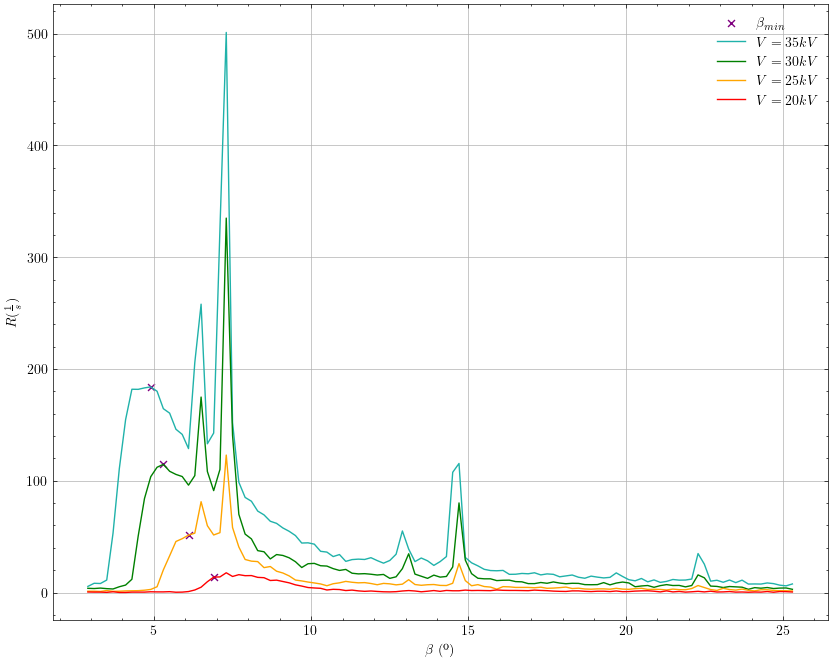
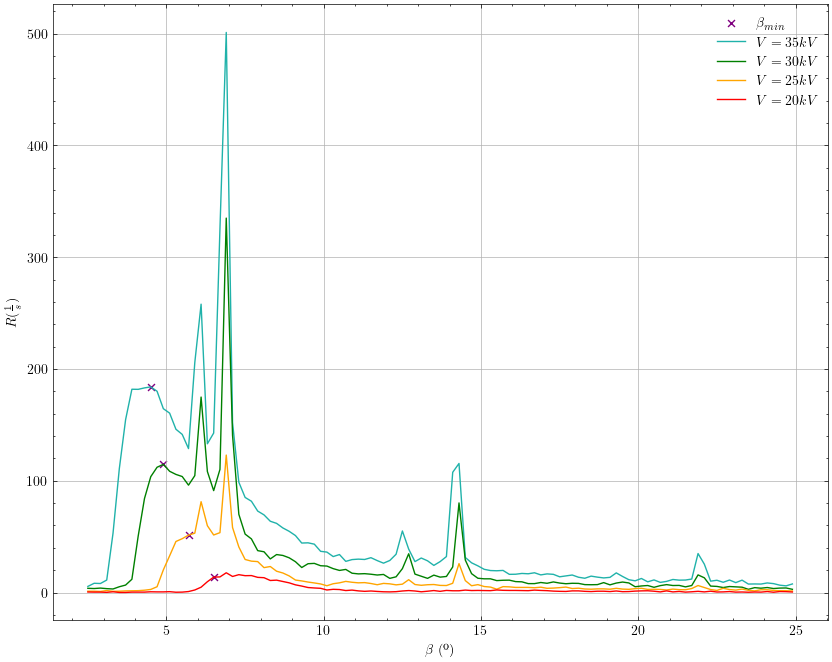
diagrama de polvo

diff --git a/polvo.py b/polvo.py
@@ -1,0 +1,51 @@
+import pandas as pd
+import numpy as np
+import matplotlib.pyplot as plt
+from scipy.signal import savgol_filter, find_peaks
+from pybaselines import Baseline
+import utiles as ut
+import scienceplots
+plt.style.use(['science'])  
+
+def analisis():
+    data_df = pd.read_excel("DATOS/polvo.xlsx")
+
+    beta = data_df["Beta"].to_numpy() + 0.4
+    R_0  = data_df["R_0"].to_numpy()
+
+    baseline_fitter = Baseline(x_data=beta)
+    
+    fondo, _ = baseline_fitter.asls(R_0, lam=1e5, p=0.2)
+    
+    R_neto = R_0 - fondo
+
+    R_suave = savgol_filter(R_neto, 11, 4)
+
+    indices_picos, _ = find_peaks(R_suave[beta>=13], height=0.5, prominence=0.2, distance=10, width=3)
+
+    beta_picos, R_picos = beta[beta>=13][indices_picos], R_suave[beta>=13][indices_picos]
+
+    fig, (ax1, ax2) = plt.subplots(2, 1, figsize=(10, 10), sharex=True)
+
+    ax1.plot(beta, R_0, label='Original', alpha=0.6)
+    ax1.plot(beta, fondo, 'r--', label='Fondo (AsLS)')
+    ax1.set_ylabel(r'$R(\frac{1}{s})$')
+    ax1.legend()
+
+    ax2.plot(beta, R_neto, alpha=0.3, label='Señal con ruido')
+    ax2.plot(beta, R_suave, color='black', linewidth=1.5, label='Señal Suavizada')
+    for i,r in zip(beta_picos, R_picos):
+        ax2.axvline(i, color="red", linestyle="--")
+        ax2.text(i + 0.2, r, fr'${i:.1f}$º', color='black', fontsize=9, fontweight='bold', verticalalignment='bottom')
+    
+    ax2.set_xlabel(r'$\beta$ (º)')
+    ax2.set_ylabel("Intensidad")
+    ax2.legend()
+    ax2.grid(True)
+
+    plt.tight_layout()
+    plt.savefig("FIGURAS/polvo.png")
+    plt.show()
+
+if __name__ == "__main__":
+    analisis()

diff --git a/espectro.py b/espectro.py
@@ -9,13 +9,13 @@ def analisis():
     d = 2.8201
     data_df = pd.read_excel("DATOS/espectro.xlsx")
 
-    beta = data_df["Beta"].to_numpy() + 0.4
+    beta = data_df["Beta"].to_numpy() 
     R_0  = data_df["R_0"].to_numpy()
     R_1  = data_df["R_1"].to_numpy()
     R_2  = data_df["R_2"].to_numpy()
     R_3  = data_df["R_3"].to_numpy()
 
-    Q        = np.asarray([np.max(R_0[beta<=5.4]), np.max(R_1[beta<=6.2]), np.max(R_2[beta<=6.2]), np.max(R_3[beta<=7])])
+    Q        = np.asarray([np.max(R_0[beta<=5]), np.max(R_1[beta<=5]), np.max(R_2[beta<=5.7]), np.max(R_3[beta<=6.6])])
     beta_min = np.asarray([beta[R_0==Q[0]][0],beta[R_1==Q[1]][0],beta[R_2==Q[2]][0],beta[R_3==Q[3]][0]])
 
     resultados_df = pd.DataFrame()
@@ -40,6 +40,7 @@ def analisis():
     plt.ylabel(r'$R(\frac{1}{s})$')
     plt.legend()
     plt.grid(True)
+    plt.savefig("FIGURAS/espectro.png")
     plt.show()
 
 if __name__ == "__main__":

diff --git a/planck.py b/planck.py
@@ -48,6 +48,7 @@ def analisis():
     plt.ylabel(r'$\lambda$ (m)')
     plt.legend()
     plt.grid(True)
+    plt.savefig("FIGURAS/planck.png")
     plt.show()
 
 if __name__ == "__main__":

diff --git a/kramer.py b/kramer.py
@@ -44,6 +44,7 @@ def analisis():
     plt.ylabel(r'$\ln(Q)$')
     plt.legend()
     plt.grid(True)
+    plt.savefig("FIGURAS/kramer.png")
     plt.show()
 
 if __name__ == "__main__":
